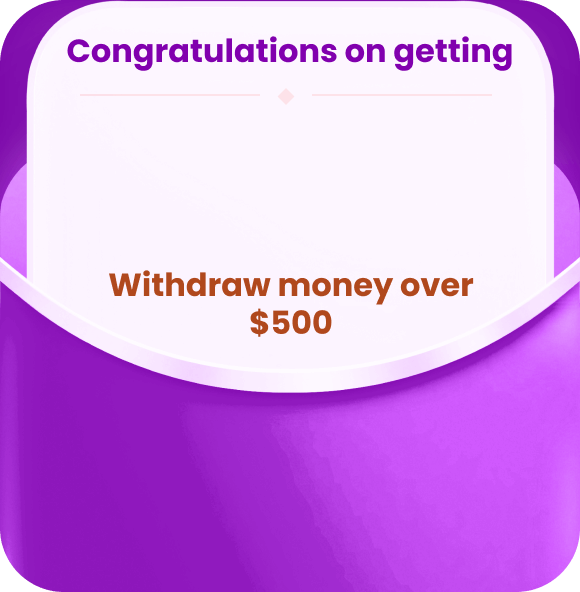
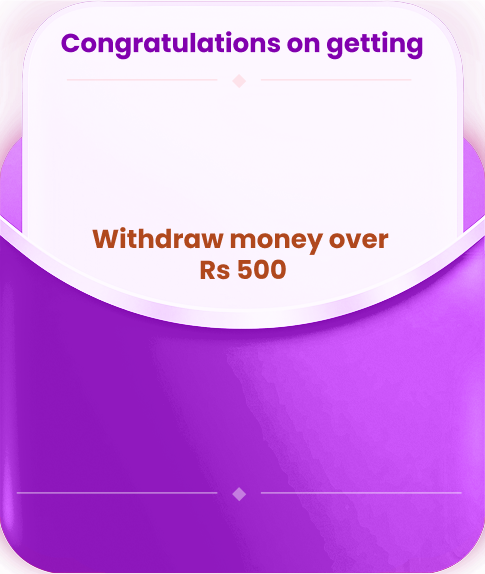
fix: [pk3] Amend currency label

diff --git a/pk3-static-v3/src/components/hotpromo/spin-lucky-wheel/EnvelopeStage.vue b/pk3-static-v3/src/components/hotpromo/spin-lucky-wheel/EnvelopeStage.vue
@@ -26,7 +26,7 @@
         </button>
       </div>
       <div v-else class="selected-envelope">
-        <span class="prize">${{ prizeList[selectedIndex]?.prize }}</span>
+        <span class="prize">{{ store.currency.value }} {{ prizeList[selectedIndex]?.prize }}</span>
         <CommonButton class="withdraw-btn" @click="$emit('envelopeClick')">Go withdraw now!</CommonButton>
         <span class="remaining-time">time left: {{ remainingTime }}</span>
       </div>
@@ -41,9 +41,11 @@ import moment from "moment";
 import { onUnmounted, ref } from "vue";
 import CommonButton from "./CommonButton.vue";
 import { eventapi } from "src/boot/axios";
+import { userStore } from "stores/index";
 
 defineEmits(["envelopeClick"]);
 
+const store = userStore();
 const envelopeStatus = ref("idle");
 const prizeList = ref(new Array(6).fill().map(() => ({ status: "idle", prize: 0 })));
 const selectedIndex = ref(0);

diff --git a/pk3-static-v3/src/components/hotpromo/spin-lucky-wheel/WheelResultDialog.vue b/pk3-static-v3/src/components/hotpromo/spin-lucky-wheel/WheelResultDialog.vue
@@ -1,7 +1,7 @@
 <template>
   <q-dialog v-model="_modelValue" @hide="$emit('hide')">
     <div class="wheel-result-wrapper">
-      <span class="prize">+${{ props.prize }}</span>
+      <span class="prize">+{{store.currency.value}} {{ props.prize }}</span>
       <CommonButton class="close-btn" v-close-popup>Okay</CommonButton>
     </div>
   </q-dialog>
@@ -9,9 +9,12 @@
 <script setup>
 import { computed } from "vue";
 import CommonButton from "./CommonButton.vue";
+import { userStore } from "stores/index";
 
 const props = defineProps(["modelValue", "prize"]);
 const emit = defineEmits(["update:modelValue", "hide"]);
+
+const store = userStore();
 
 const _modelValue = computed({
   get: () => props.modelValue,
